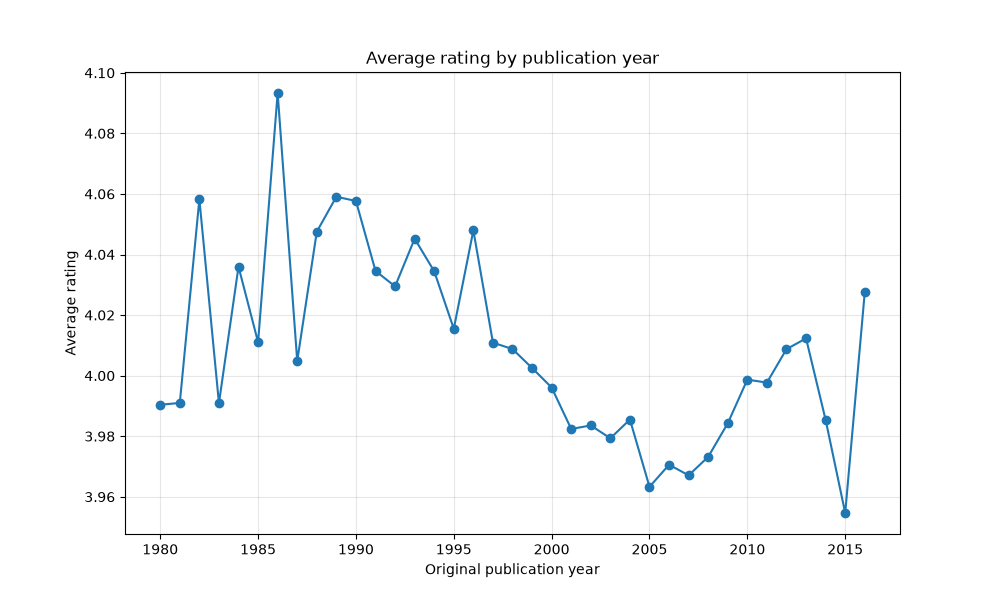
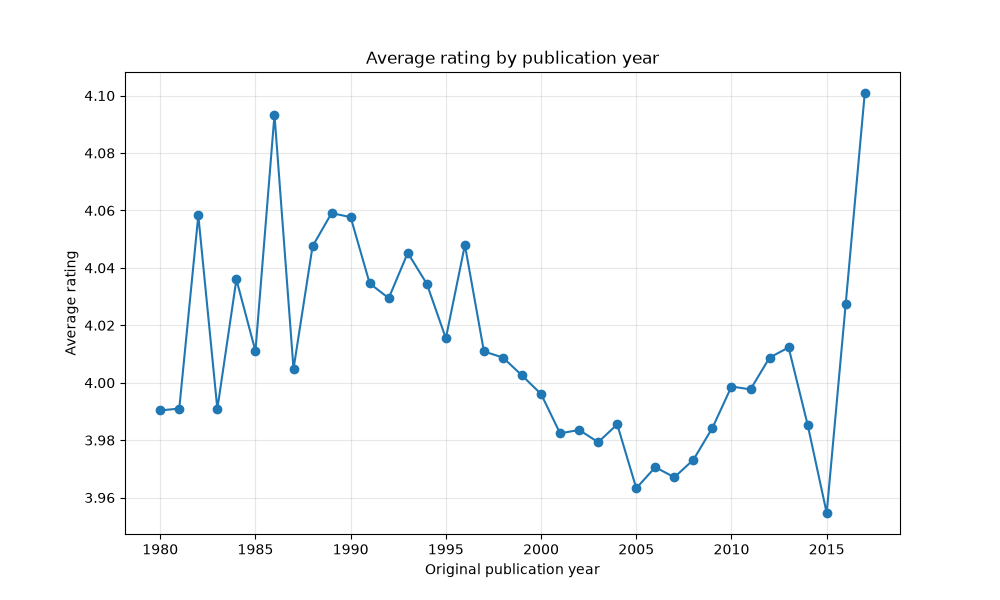
Include 2017 in publication year range and improve correlation validation by checking variability in both variables

diff --git a/pageturners/plots.py b/pageturners/plots.py
@@ -278,7 +278,7 @@ def plot_average_rating_by_decade(books):
 # AVERAGE RATING BY PUBLICATION YEAR
 # Visualize how average book ratings change over time
 # Calculate the average rating for each publication year
-# Include only books published between 1980 and 2016
+# Include only books published between 1980 and 2017
 
 
 def plot_average_rating_by_year(books):
@@ -298,16 +298,16 @@ def plot_average_rating_by_year(books):
 
     Notes
     -----
-    Only books published between 1980 and 2016 are included.
+    Only books published between 1980 and 2017 are included.
     Books with missing publication years are excluded.
     """
 
     # Remove books with missing publication years
     books_with_year = books.dropna(subset=["original_publication_year"])
 
-    # Keep books published between 1980 and 2016
+    # Keep books published between 1980 and 2017
     books_recent = books_with_year[
-        books_with_year["original_publication_year"].between(1980, 2016)
+        books_with_year["original_publication_year"].between(1980, 2017)
     ]
 
     # Use the analysis function to calculate average ratings by year

diff --git a/app.py b/app.py
@@ -473,7 +473,7 @@ elif page == "Publication year":
 
     # Allow users to select the publication period
     year_range = st.slider(
-        "Publication period", min_value=1800, max_value=2017, value=(1980, 2016)
+        "Publication period", min_value=1800, max_value=2017, value=(1980, 2017)
     )
 
     # Filter books according to the selected period
@@ -482,7 +482,10 @@ elif page == "Publication year":
     ].copy()
 
     # Calculate correlations for the selected publication period
-    if filtered_books["original_publication_year"].nunique() > 1:
+    if (
+        filtered_books["original_publication_year"].nunique() > 1
+        and filtered_books["average_rating"].nunique() > 1
+    ):
         
         pearson_corr, spearman_corr = publication_year_correlations(filtered_books)
 

diff --git a/scripts/run_analysis.py b/scripts/run_analysis.py
@@ -137,7 +137,7 @@ def main():
     plt.close(fig)
 
     # Create a line plot showing average ratings by publication year
-    # Only books published between 1980 and 2016 are included
+    # Only books published between 1980 and 2017 are included
     fig = plot_average_rating_by_year(books)
     fig.savefig("figures/average_rating_by_year.png")
     plt.close(fig)

diff --git a/analysis_datasets.md b/analysis_datasets.md
@@ -477,11 +477,11 @@ For each decade, the analysis calculates:
 The bubble chart displays the average rating for each decade, with bubble size representing the number of books.
 Average ratings remain relatively stable, generally around 4 stars. Earlier decades contain fewer books, so their averages should be interpreted with caution.
 
-#### 3. Average rating by publication year (1980–2016)
+#### 3. Average rating by publication year (1980-2017)
 ![Average rating by publication year](figures/average_rating_by_year.png)
-A line chart illustrates the average rating for each publication year between 1980 and 2016.
+A line chart illustrates the average rating for each publication year between 1980 and 2017.
 For each year, the analysis calculates the mean of the books' average ratings and the number of books.
-The year 2017 is excluded from this visualization because it contains only 11 books, although it remains included in the correlation analysis.
+The year 2017 contains only 11 books. Therefore, its average rating should be interpreted with caution due to the limited number of observations.
 Some fluctuations are visible, but no consistent increasing or decreasing trend emerges.
 
 ### Interactive Streamlit dashboard
